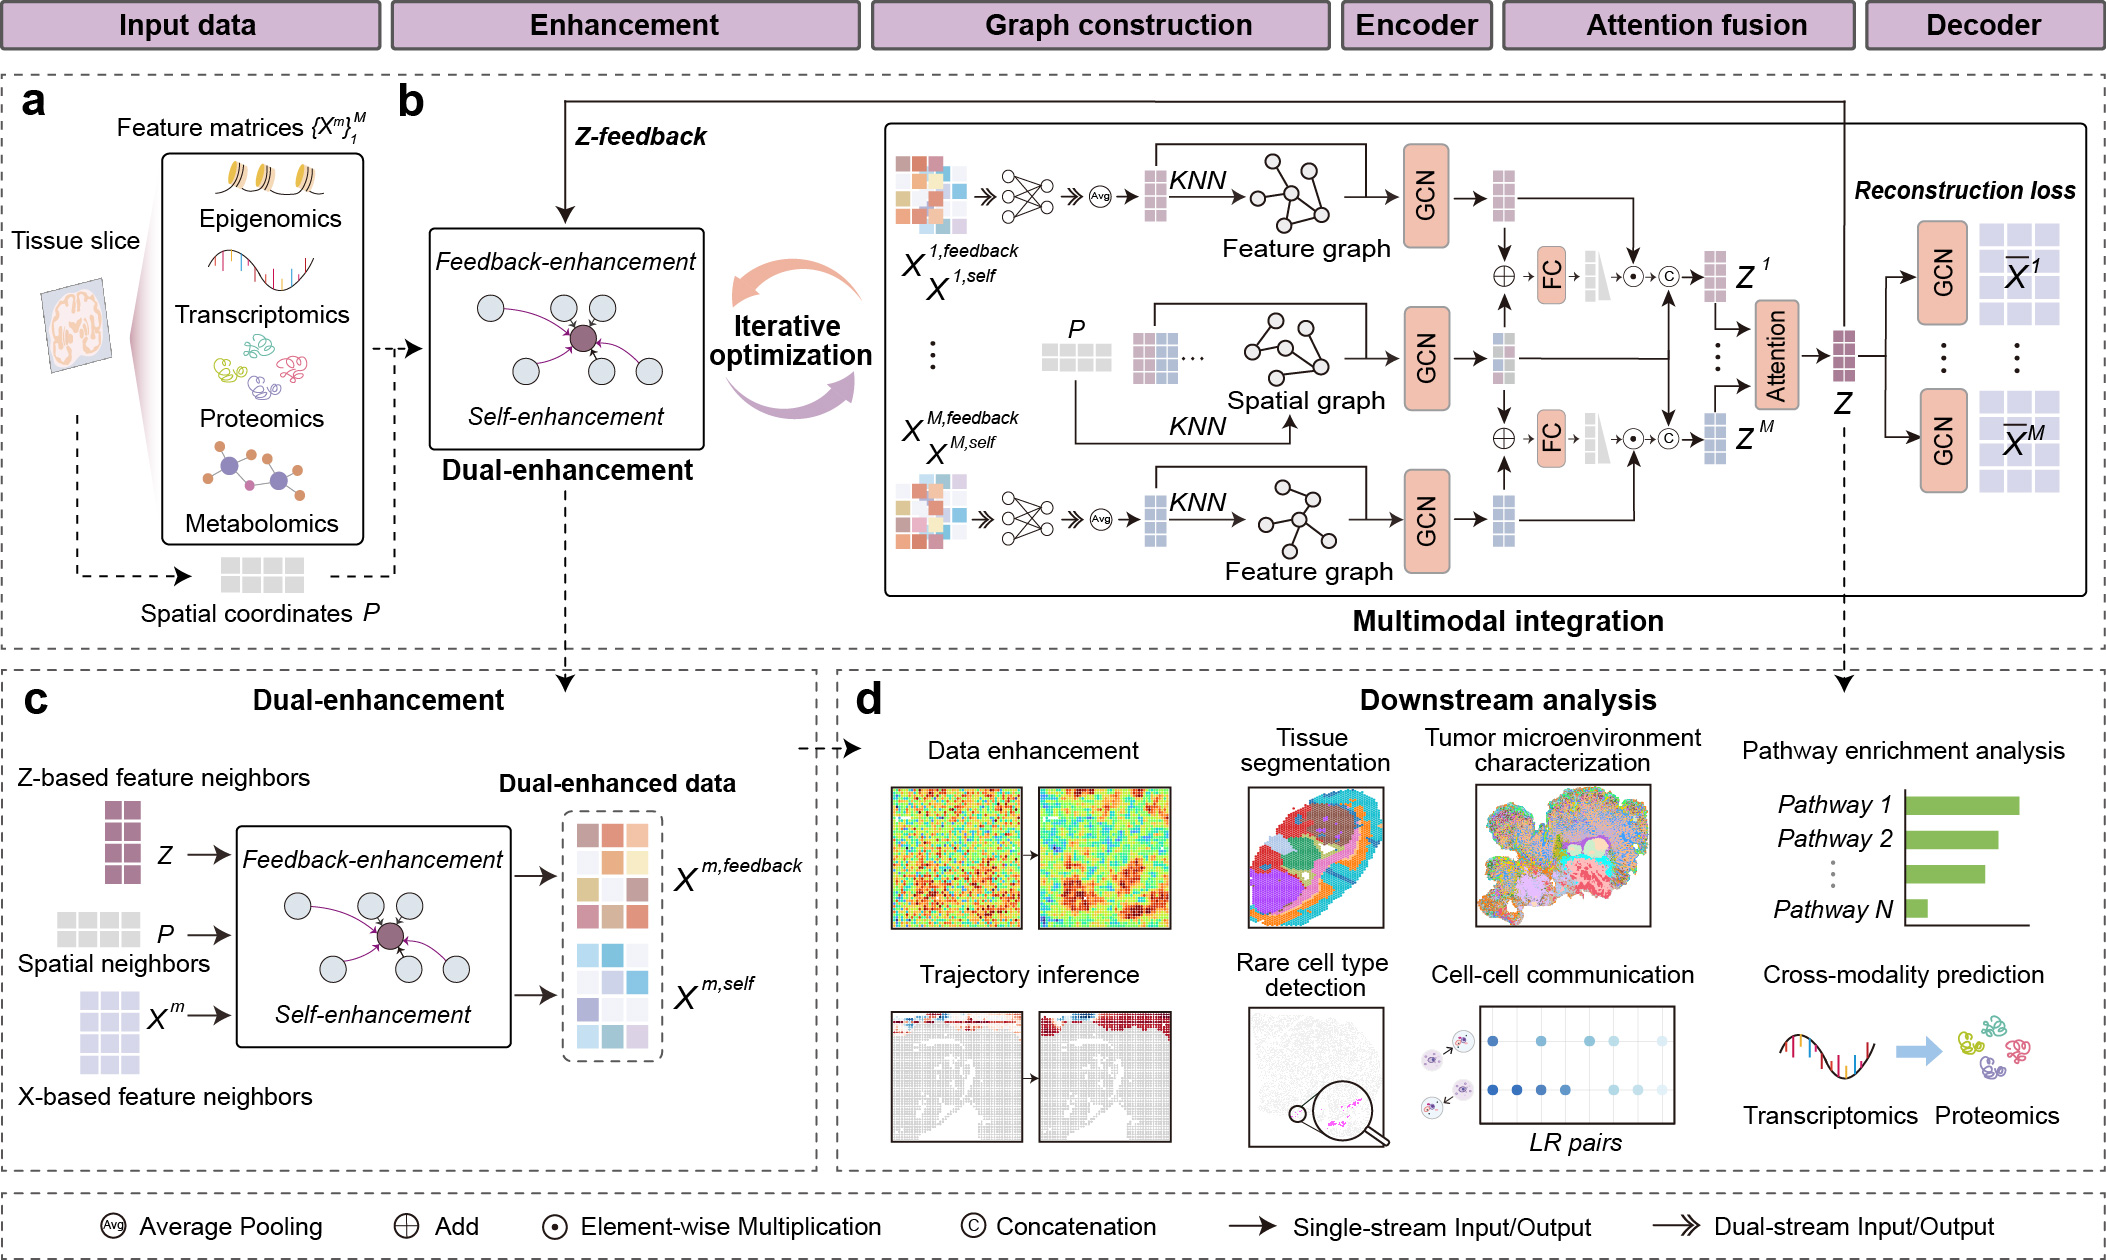
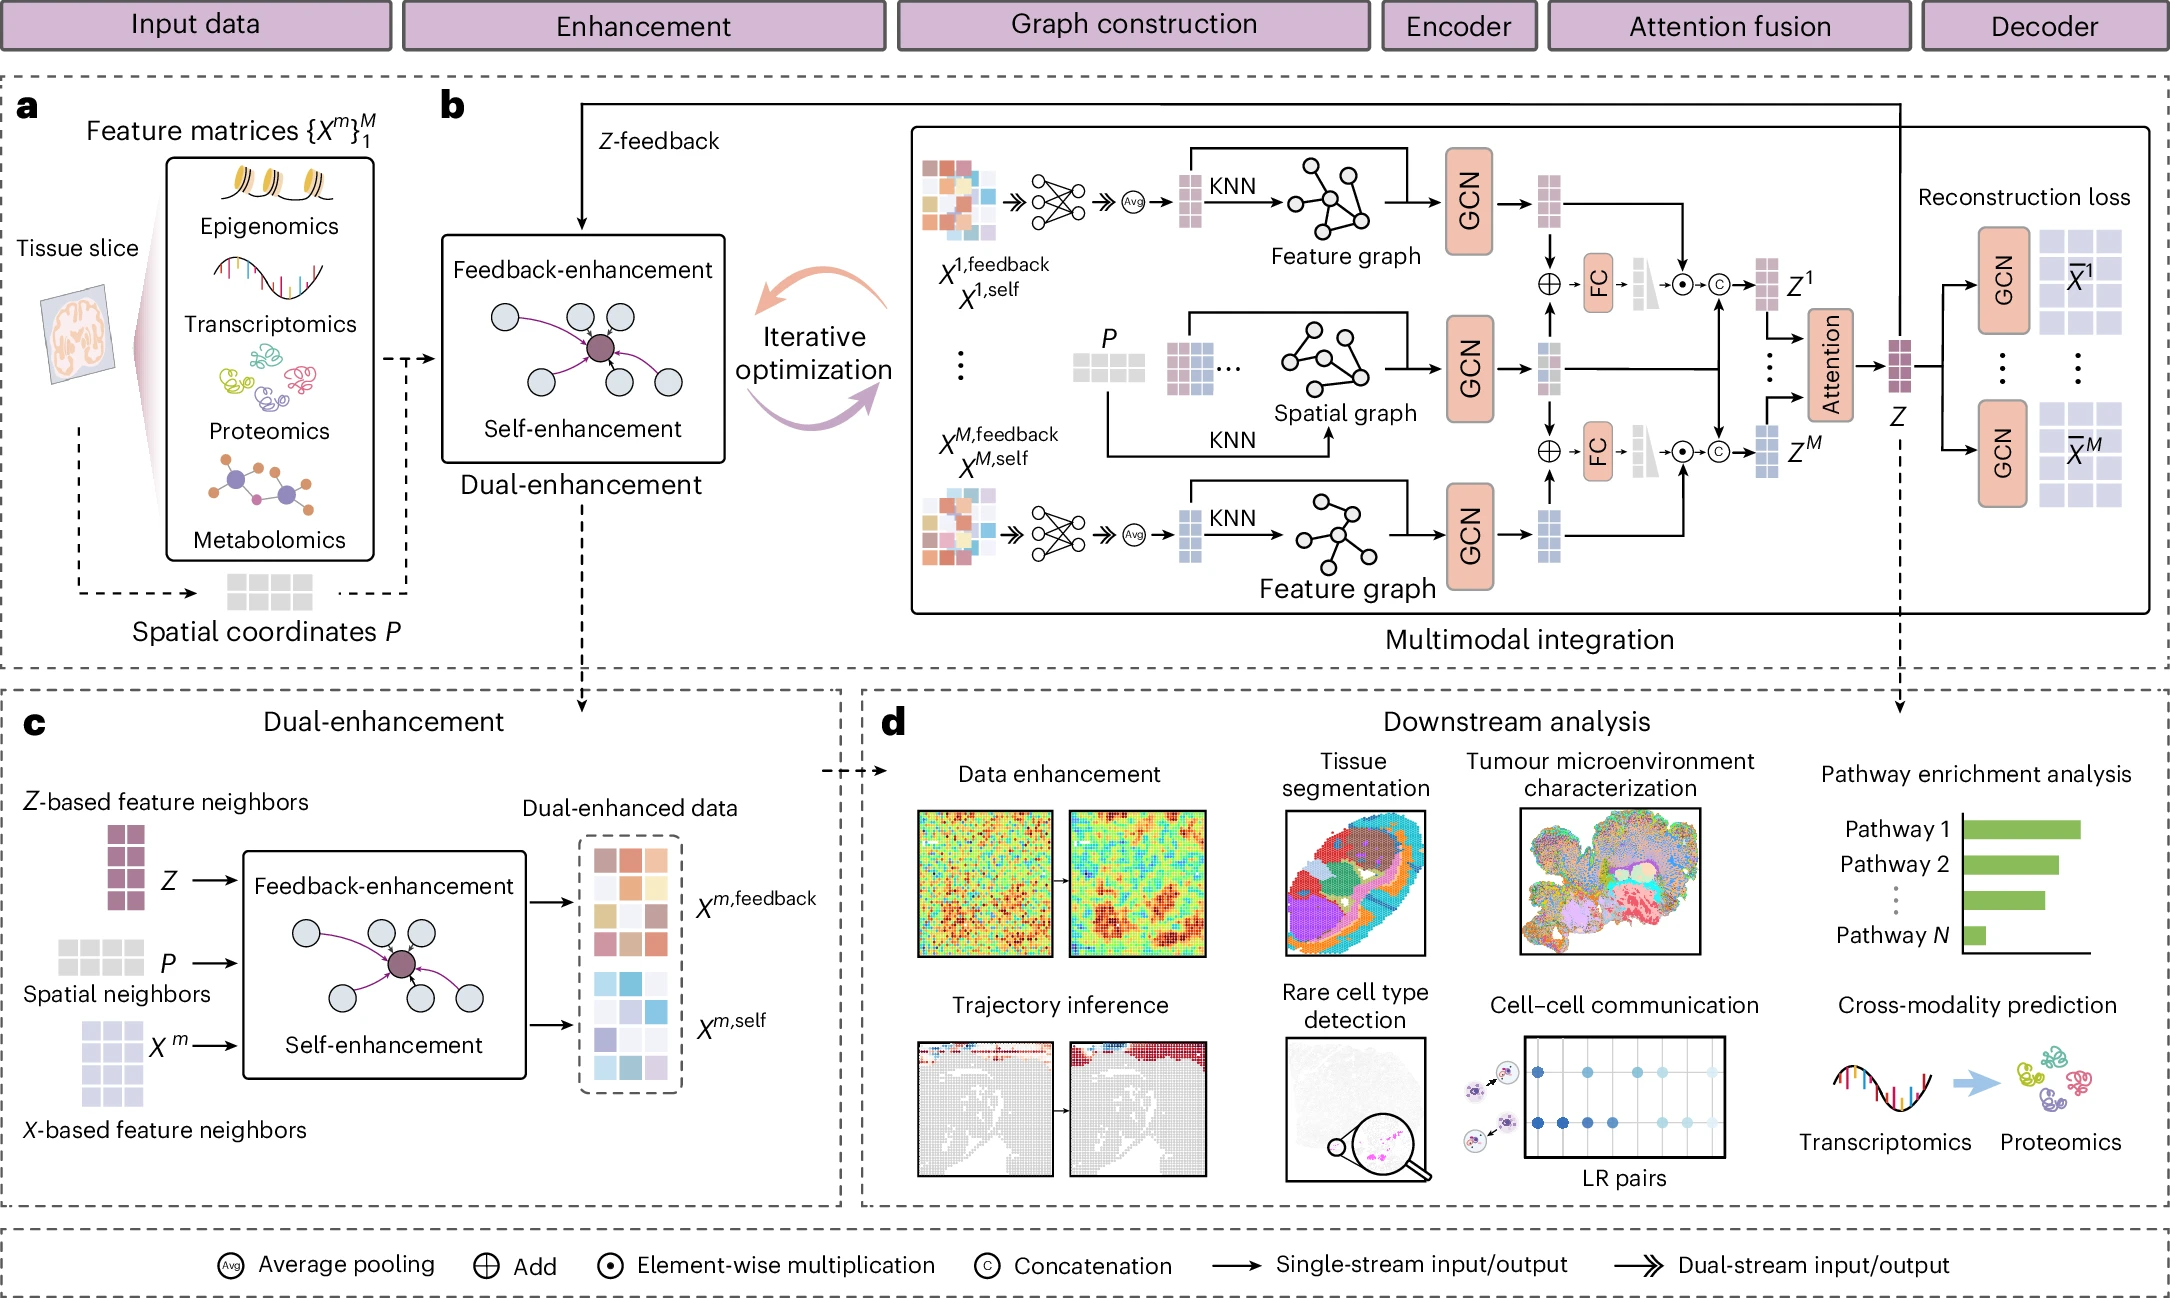
Update

diff --git a/scripts/3-Trajectory inference/dpt_scanpy.py b/scripts/3-Trajectory inference/dpt_scanpy.py
@@ -11,6 +11,7 @@ adata = sc.read('/home/jyx2/DePass-main/outputs/dataset_Spatial_Mux_seq/run/adat
 # adata = sc.read('/home/jyx2/DePass-main/outputs/dataset_Spatial_Mux_seq/run/adata_enhanced.h5ad')
 
 
+
 """
 We evaluated DePass on the mouse embryo dataset by performing pseudotime analysis 
 using both raw RNA data and DePass-enhanced RNA data, focusing on the radial glia (cluster 4) 

diff --git a/scripts/4-Omics data prediction/cTP_net/cTP_net_inter.py b/scripts/4-Omics data prediction/cTP_net/cTP_net_inter.py
@@ -19,6 +19,7 @@ project_root = os.path.abspath(os.path.join(os.path.dirname(__file__), '../../..
 sys.path.append(project_root)
 from methods.utils import *
 
+
 parser = argparse.ArgumentParser(description='PyTorch Example')
 parser.add_argument('--batch_size', type=int, default=100, metavar='N',
                     help='input batch size for each GPU training (default: 16)')

diff --git a/scripts/4-Omics data prediction/scButterfly/scButterfly_inter.py b/scripts/4-Omics data prediction/scButterfly/scButterfly_inter.py
@@ -18,6 +18,7 @@ from scButterfly.train_model_cite import Model
 from methods.utils import *
 from sklearn.model_selection import train_test_split
 
+
 parser = argparse.ArgumentParser(description='PyTorch Example')
 parser.add_argument('--batch_size', type=int, default=32, metavar='N',
                     help='input batch size for each GPU training (default: 16)')

diff --git a/scripts/5-Enhancement evaluation/metrics.py b/scripts/5-Enhancement evaluation/metrics.py
@@ -15,7 +15,6 @@ from anndata import AnnData
 
 
 
-
 def calculate_coefficient_of_variation(expr):
     expr = expr[~np.isnan(expr)]
     if len(expr) < 2:
@@ -98,7 +97,6 @@ def compute_domain_metrics(adata, domain_col="cell_type", norm="min-max"):
         results.extend(gene_domain_stats)
 
     return pd.DataFrame(results)
-
 
 
 def calculate_logfc(

diff --git a/scripts/4-Omics data prediction/scMOG/scMOG_inter.py b/scripts/4-Omics data prediction/scMOG/scMOG_inter.py
@@ -37,6 +37,7 @@ from pytorchtools import EarlyStopping
 logging.basicConfig(level=logging.INFO)
 SAVEFIG_DPI = 1200
 
+
 def build_parser():
     parser = argparse.ArgumentParser(description=__doc__, formatter_class=argparse.ArgumentDefaultsHelpFormatter)
     parser.add_argument("--hidden", type=int, nargs="*", default=[16])

diff --git a/scripts/1-Spatial niche inference/run_nichecompass.py b/scripts/1-Spatial niche inference/run_nichecompass.py
@@ -27,6 +27,7 @@ from nichecompass.utils import (add_gps_from_gp_dict_to_adata,
                                 generate_multimodal_mapping_dict,
                                 get_unique_genes_from_gp_dict)
 
+
 dataset = "depass"
 species = "mouse"
 spatial_key = "spatial"

diff --git a/DePass/net.py b/DePass/net.py
@@ -101,6 +101,7 @@ class DePassAE(Module):
 
         return results
 
+
 class DePassAE1(Module):
     def __init__(self, dim_input1, mlplayer1, dim, dropout=0.2, act='elu'):
         super(DePassAE1, self).__init__() 

diff --git a/docs/conf.py b/docs/conf.py
@@ -12,6 +12,7 @@ author = 'W. Li, Y. Jiang'
 copyright = 'zhanglabNKU'
 release = '0.1.0'
 
+
 extensions = [
     'sphinx.ext.autodoc',             
     'sphinx.ext.autosummary',         

diff --git a/DePass/utils_analysis.py b/DePass/utils_analysis.py
@@ -18,7 +18,6 @@ from scipy.stats import pearsonr
 
 # mpl.rcParams['pdf.fonttype'] = 42
 
-
 def plot_spatial(  
     adata: AnnData,
     color: str = 'DePass',  

diff --git a/scripts/4-Omics data prediction/utils.py b/scripts/4-Omics data prediction/utils.py
@@ -10,6 +10,7 @@ import scipy
 import torch
 import scanpy as sc
 
+
 def setup_seed(seed):
     torch.manual_seed(seed)
     torch.cuda.manual_seed_all(seed)

diff --git a/scripts/4-Omics data prediction/sciPENN/sciPENN_inter.py b/scripts/4-Omics data prediction/sciPENN/sciPENN_inter.py
@@ -8,7 +8,6 @@ import random
 import sys
 import time
 import warnings
-
 import numpy as np
 import pandas as pd
 import scanpy as sc

diff --git a/readme.md b/readme.md
@@ -1,9 +1,5 @@
 
 # DePass
-<!-- <p align="left">
-  <img src=./docs/logo.png higth="100" width="200"/>
-</p> -->
-
 
 [![python >3.8.20](https://img.shields.io/badge/python-3.8.20-blue)](https://www.python.org/) 
 
@@ -11,6 +7,9 @@
 DePass is a dual-enhanced graph learning framework designed for integrated analysis of both single-cell and spatial paired multi-omics data. It flexibly supports diverse modality combinations.
 
 ![alt text](docs/DePass.jpg)
+
+
+For more information, please refer to https://www.nature.com/articles/s41556-026-02067-8
 
 ---
 
@@ -23,25 +22,11 @@ For detailed tutorials, you can refer to the following resources:
 - **Read the Docs**: [DePass Documentation](https://depass.readthedocs.io/en/latest/)  
 
 
-
 ---
 
+## Installation
 
-## Downstream tasks and evaluations
 
-We provide complete scripts for all downstream tasks and evaluations in this repository, structured as follows:
-
-- **Spatial niche inference**
-- **Cell-cell communication analysis**
-- **Trajectory inference**
-- **Omics data prediction**
-- **Enhancement evaluation**
-
-All scripts are available in the `scripts` directory: [Downstream scripts](scripts).
-
----
-
-## DePass Installation
 
 #### It is preferred to create a new environment for DePass.
 
@@ -50,7 +35,6 @@ conda create -n DePass python==3.8.20
 conda activate DePass
 ```
 
----
 
 #### Install DePass from GitHub
 
@@ -69,10 +53,9 @@ conda install -c conda-forge r-base rpy2
 conda install conda-forge::r-mclust
 ```
 
----
 
 #### Install PyTorch and PyTorch Geometric
-
+please make sure that PyTorch and PyTorch Geometric are installed with versions that are compatible with your local CUDA version.
 ```bash
 pip install torch==2.4.1
 pip install torch-geometric==2.3.1
@@ -80,10 +63,12 @@ pip install torch_scatter torch_sparse torch_cluster torch_spline_conv -f https:
 ```
 
 #### The typical install time on a normal desktop computer should be less than 5 minutes.
+
 ---
 
-
 ## Requirements
+
+
 
 ```text
 anndata==0.11.4
@@ -109,8 +94,29 @@ jupyter
 mclust
 ```
 
----
 
+---
+## Downstream tasks and evaluations
+
+
+We provide complete scripts for all downstream tasks and evaluations in this repository, structured as follows:
+
+- **Spatial niche inference**
+- **Cell-cell communication analysis**
+- **Trajectory inference**
+- **Omics data prediction**
+- **Enhancement evaluation**
+
+All scripts are available in the `scripts` directory: [Downstream scripts](scripts).
+
+---
 ## Data
 
-The data used in this study are available at [Data](https://zenodo.org/records/21736075).
+
+The processed data used in this study are available at [Data](https://zenodo.org/records/21736075).
+
+---
+## Citation
+
+
+Li, W., Jiang, Y., Zhao, Q. et al. The dual-enhanced graph learning framework DePass allows paired data integration in single-cell and spatial multiomics. *Nat Cell Biol* (2026). https://doi.org/10.1038/s41556-026-02067-8
